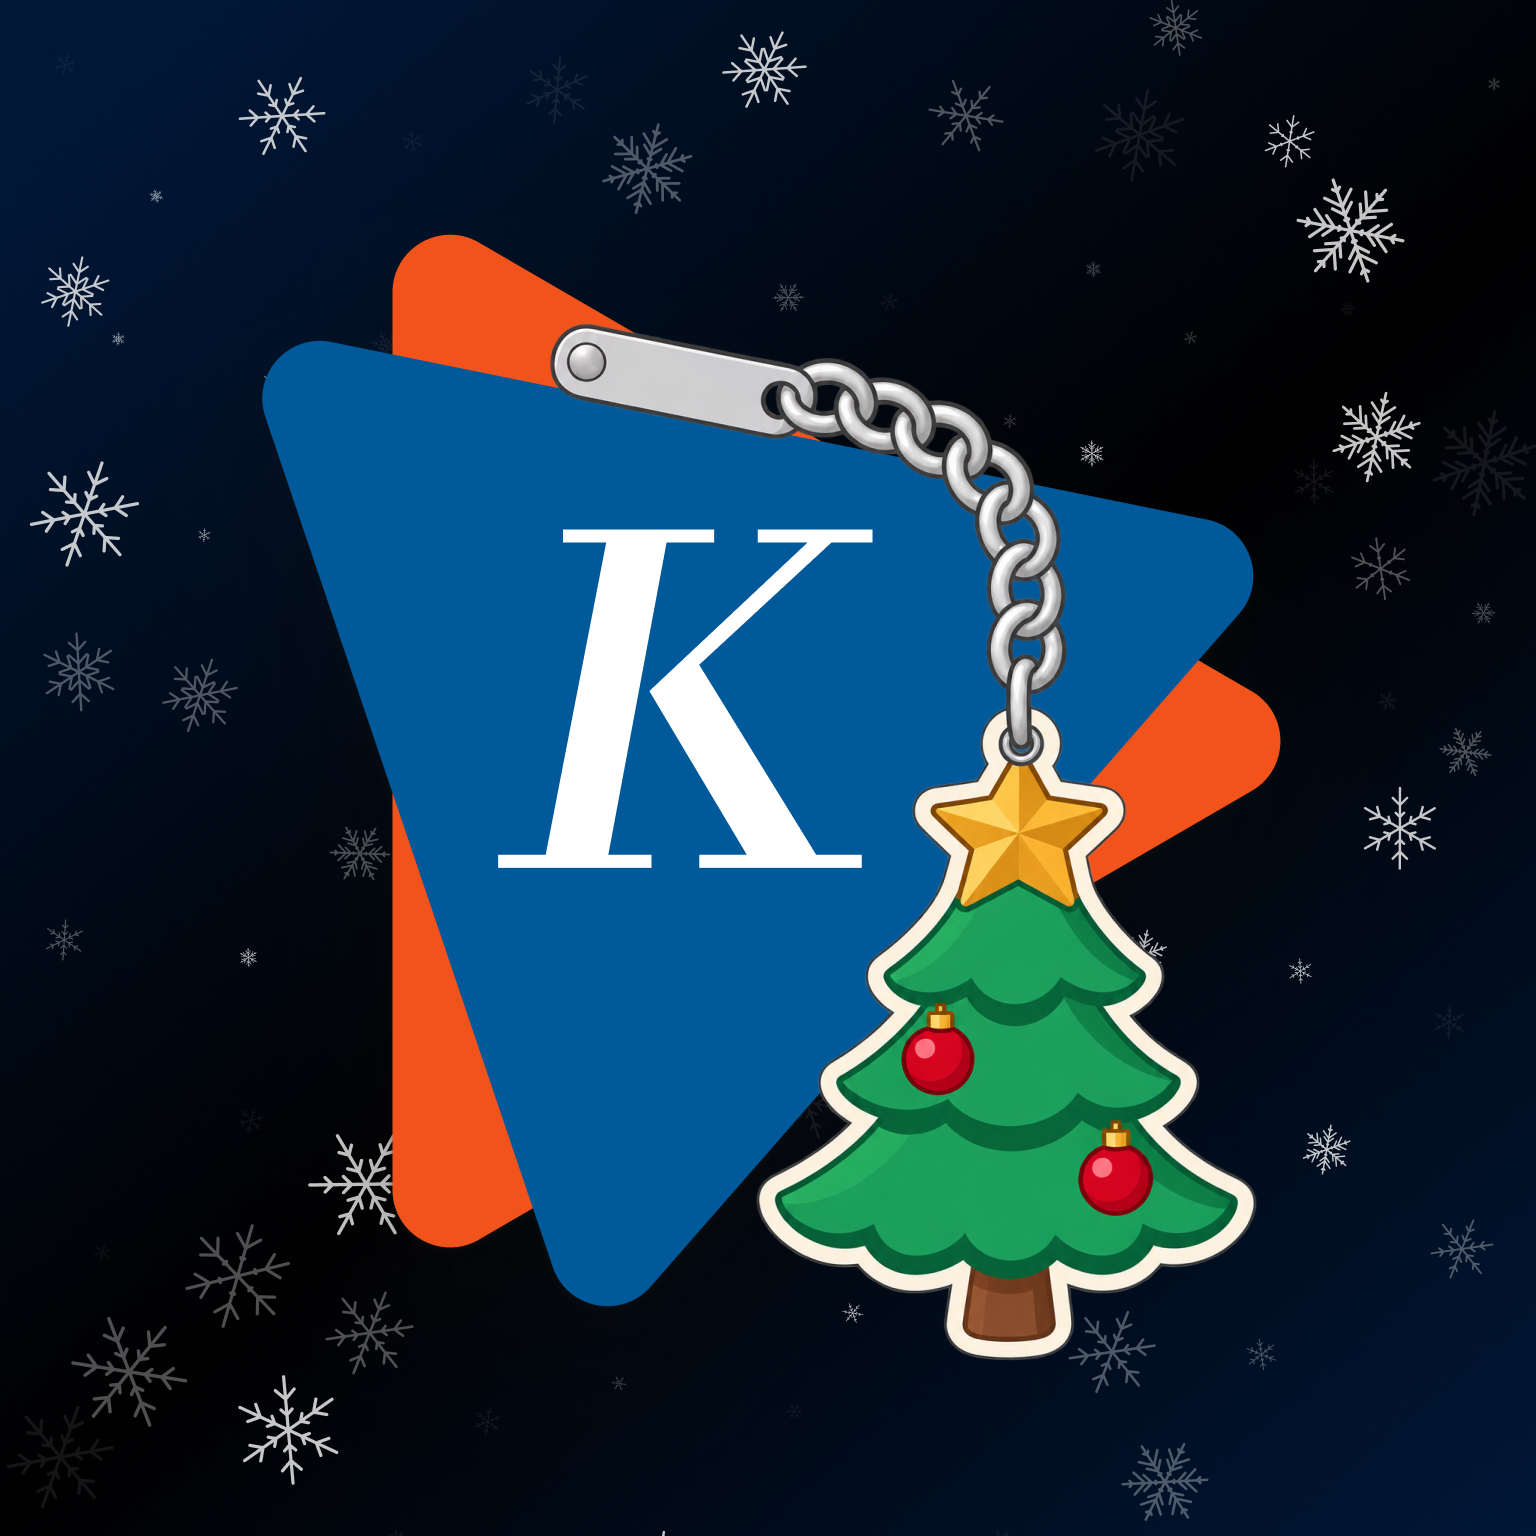
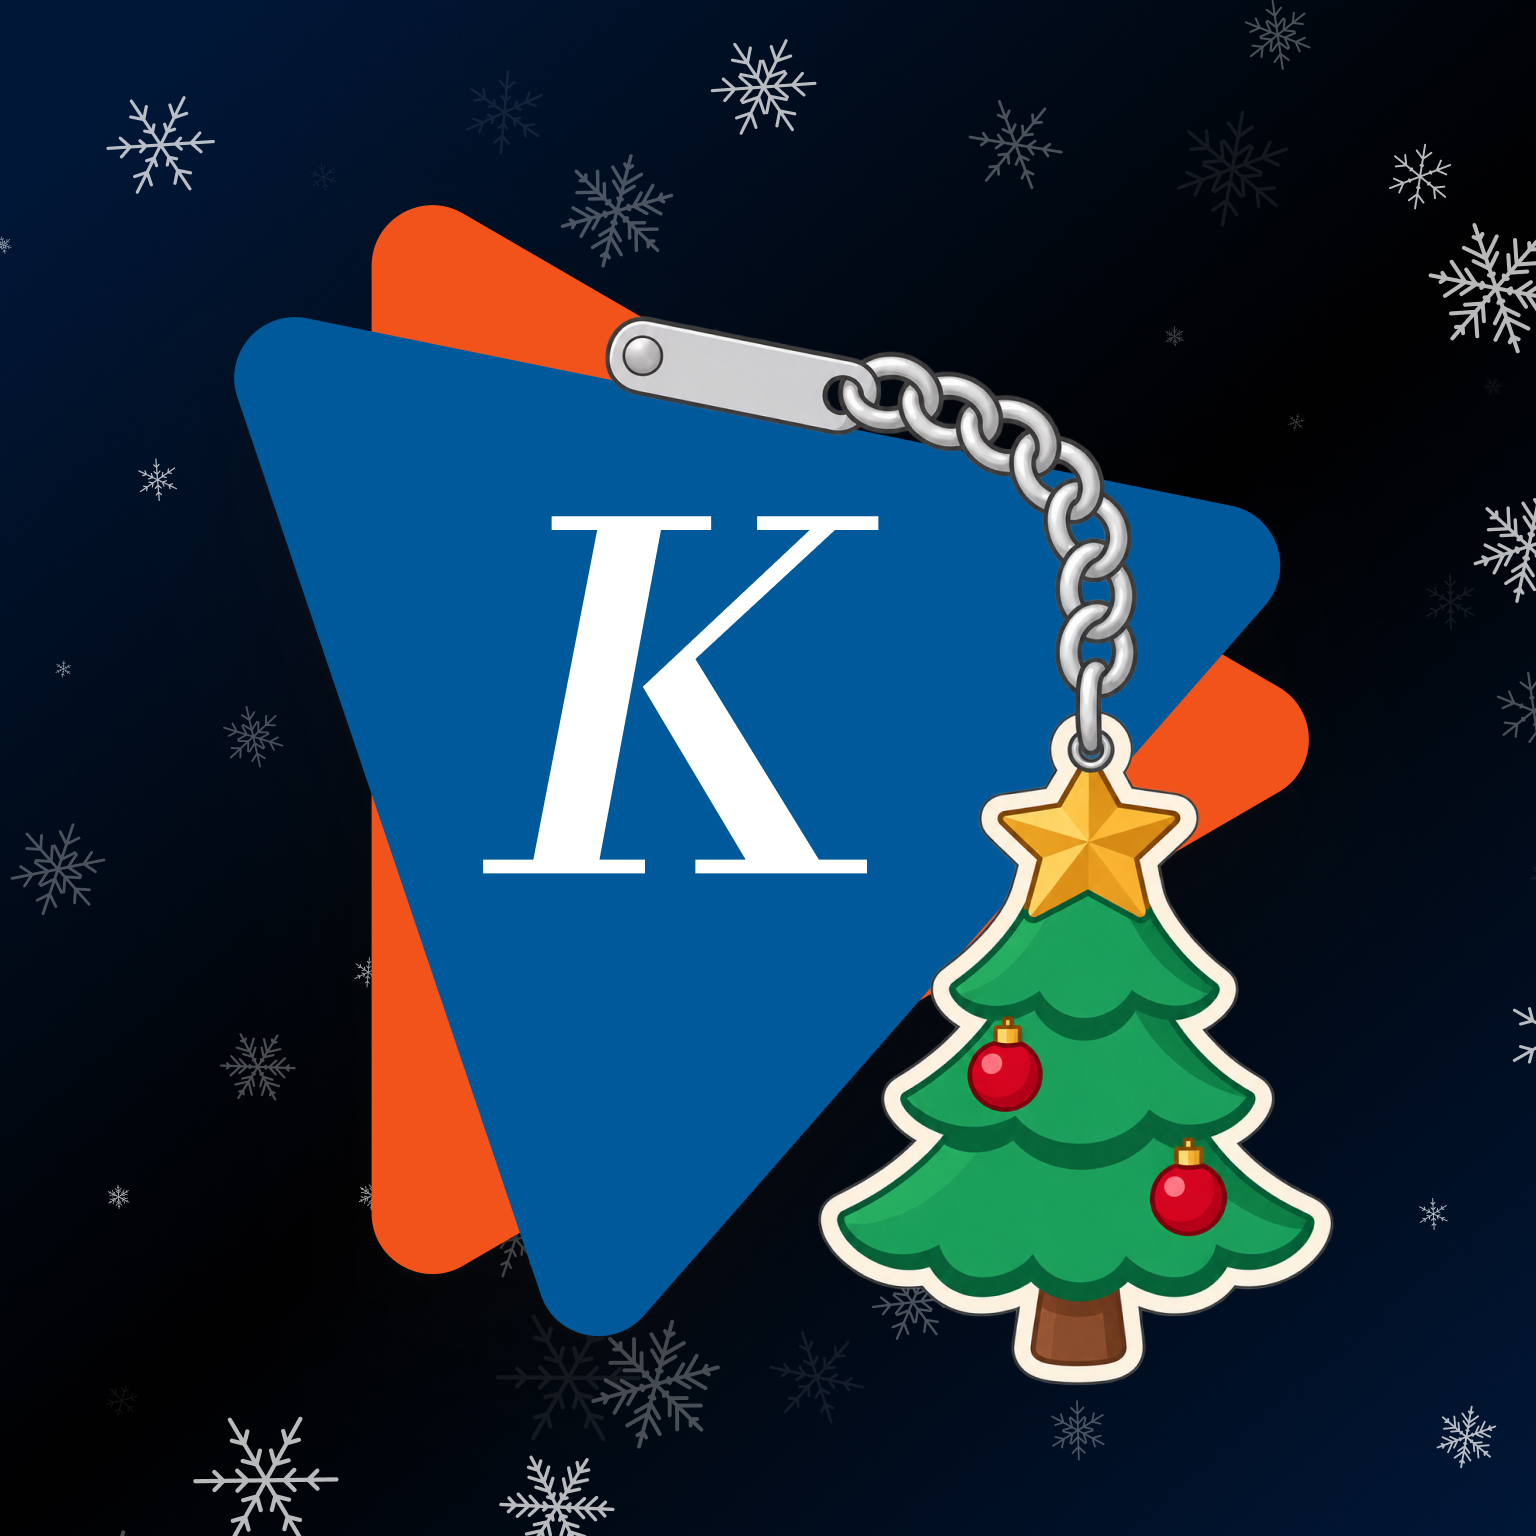
Add Keychain thumbnails to app grids

diff --git a/ios.html b/ios.html
@@ -36,11 +36,13 @@
         <div class="app"><div class="icon mail" aria-hidden="true">✉</div><span class="name">Mail</span></div>
         <div class="app"><div class="icon"><img src="./Assets/Thumbnail/SumpahPemudaDark.jpg" alt="Kompas.com — Sumpah Pemuda, dark" /></div><span class="name">Kompas.com</span></div>
         <div class="app"><div class="icon"><img src="./Assets/Thumbnail/PahlawanDark.jpg" alt="Kompas.com — Sumpah Pemuda dan Hari Pahlawan, dark" /></div><span class="name">Sumpah Pemuda &amp; Hari Pahlawan</span></div>
+        <div class="app"><div class="icon"><img src="./Assets/Thumbnail/PemudaPahlawanKeychain.jpg" alt="Kompas.com — Sumpah Pemuda dan Hari Pahlawan 2" /></div><span class="name">Sumpah Pemuda &amp; Hari Pahlawan 2</span></div>
         <div class="app"><div class="icon"><img src="./Assets/Thumbnail/NatalDark.jpg" alt="Kompas.com — Natal, dark" /></div><span class="name">Kompas.com</span></div>
         <div class="app"><div class="icon"><img src="./Assets/Thumbnail/NatalLight.jpg" alt="Kompas.com — Natal, light" /></div><span class="name">Kompas.com</span></div>
         <div class="app"><div class="icon"><img src="./Assets/Thumbnail/NatalKeychain.jpg" alt="Kompas.com — Natal 2" /></div><span class="name">Natal 2</span></div>
         <div class="app"><div class="icon"><img src="./Assets/Thumbnail/HUTRIDark.jpg" alt="Kompas.com — HUT RI, dark" /></div><span class="name">Kompas.com</span></div>
         <div class="app"><div class="icon"><img src="./Assets/Thumbnail/HUTRILight.jpg" alt="Kompas.com — HUT RI, light" /></div><span class="name">Kompas.com</span></div>
+        <div class="app"><div class="icon"><img src="./Assets/Thumbnail/HUTKemerdekaanKeychain.jpg" alt="Kompas.com — HUT RI 2" /></div><span class="name">HUT RI 2</span></div>
         <div class="app"><div class="icon"><img src="./Assets/Thumbnail/HUTKompascom.jpg" alt="Kompas.com — HUT KOMPAS.com" /></div><span class="name">HUT KOMPAS.com</span></div>
         <div class="app"><div class="icon"><img src="./Assets/Thumbnail/KompascomKeychain.jpg" alt="Kompas.com — Kompas.com 2" /></div><span class="name">Kompas.com 2</span></div>
         <div class="app"><div class="icon"><img src="./Assets/Thumbnail/HariAnakDark.jpg" alt="Kompas.com — Hari Anak, dark" /></div><span class="name">Kompas.com</span></div>
@@ -61,6 +63,7 @@
         <div class="app"><div class="icon"><img src="./Assets/Thumbnail/RamadhanLight.jpg" alt="Kompas.com — Ramadhan, light" /></div><span class="name">Kompas.com</span></div>
         <div class="app"><div class="icon"><img src="./Assets/Thumbnail/RamadhanKeychain.jpg" alt="Kompas.com — Ramadhan 2" /></div><span class="name">Ramadhan 2</span></div>
         <div class="app"><div class="icon"><img src="./Assets/Thumbnail/TahunBaruDark.jpg" alt="Kompas.com — Tahun Baru, dark" /></div><span class="name">Kompas.com</span></div>
+        <div class="app"><div class="icon"><img src="./Assets/Thumbnail/TahunBaruKeychain.jpg" alt="Kompas.com — Tahun Baru 2" /></div><span class="name">Tahun Baru 2</span></div>
         <div class="app"><div class="icon"><img src="./Assets/Thumbnail/TahunBaruLight.jpg" alt="Kompas.com — Tahun Baru, light" /></div><span class="name">Kompas.com</span></div>
         <div class="app"><div class="icon weather" aria-hidden="true">☀</div><span class="name">Weather</span></div>
         <div class="app"><div class="icon notes" aria-hidden="true">≡</div><span class="name">Notes</span></div>
@@ -71,10 +74,12 @@
         const thumbnails = {
           "SumpahPemudaDark.jpg": [1, "Sumpah Pemuda"],
           "PahlawanDark.jpg": [1, "Sumpah Pemuda & Hari Pahlawan"],
+          "PemudaPahlawanKeychain.jpg": [1.5, "Sumpah Pemuda & Hari Pahlawan 2"],
           "NatalDark.jpg": [3, "Natal"],
           "NatalLight.jpg": [4, "Natal"],
           "NatalKeychain.jpg": [4.5, "Natal 2"],
           "TahunBaruDark.jpg": [5, "Tahun Baru"],
+          "TahunBaruKeychain.jpg": [5.5, "Tahun Baru 2"],
           "TahunBaruLight.jpg": [6, "Tahun Baru"],
           "ImlekDark.jpg": [7, "Imlek"],
           "ImlekLight.png": [8, "Imlek"],
@@ -95,6 +100,7 @@
           "HariAnakLight.jpg": [21, "Hari Anak"],
           "HUTRIDark.jpg": [22, "HUT RI"],
           "HUTRILight.jpg": [23, "HUT RI"],
+          "HUTKemerdekaanKeychain.jpg": [23.5, "HUT RI 2"],
           "HUTKompascom.jpg": [24, "HUT KOMPAS.com"],
           "KompascomKeychain.jpg": [25, "Kompas.com 2"]
         };

diff --git a/android.html b/android.html
@@ -36,11 +36,13 @@
         <div class="app"><div class="icon photos" aria-hidden="true">✿</div><span class="name">Photos</span></div>
         <div class="app"><div class="icon"><img src="./Assets/Thumbnail/SumpahPemudaDark.jpg" alt="Kompas.com — Sumpah Pemuda, dark" /></div><span class="name">Sumpah Pemuda</span></div>
         <div class="app"><div class="icon"><img src="./Assets/Thumbnail/PahlawanDark.jpg" alt="Kompas.com — Sumpah Pemuda dan Hari Pahlawan, dark" /></div><span class="name">Sumpah Pemuda &amp; Hari Pahlawan</span></div>
+        <div class="app"><div class="icon"><img src="./Assets/Thumbnail/PemudaPahlawanKeychain.jpg" alt="Kompas.com — Sumpah Pemuda dan Hari Pahlawan 2" /></div><span class="name">Sumpah Pemuda &amp; Hari Pahlawan 2</span></div>
         <div class="app"><div class="icon"><img src="./Assets/Thumbnail/NatalDark.jpg" alt="Kompas.com — Natal, dark" /></div><span class="name">Natal</span></div>
         <div class="app"><div class="icon"><img src="./Assets/Thumbnail/NatalLight.jpg" alt="Kompas.com — Natal, light" /></div><span class="name">Natal</span></div>
         <div class="app"><div class="icon"><img src="./Assets/Thumbnail/NatalKeychain.jpg" alt="Kompas.com — Natal 2" /></div><span class="name">Natal 2</span></div>
         <div class="app"><div class="icon"><img src="./Assets/Thumbnail/HUTRIDark.jpg" alt="Kompas.com — HUT RI, dark" /></div><span class="name">HUT RO</span></div>
         <div class="app"><div class="icon"><img src="./Assets/Thumbnail/HUTRILight.jpg" alt="Kompas.com — HUT RI, light" /></div><span class="name">HUT RI</span></div>
+        <div class="app"><div class="icon"><img src="./Assets/Thumbnail/HUTKemerdekaanKeychain.jpg" alt="Kompas.com — HUT RI 2" /></div><span class="name">HUT RI 2</span></div>
         <div class="app"><div class="icon"><img src="./Assets/Thumbnail/HUTKompascom.jpg" alt="Kompas.com — HUT KOMPAS.com" /></div><span class="name">HUT KOMPAS.com</span></div>
         <div class="app"><div class="icon"><img src="./Assets/Thumbnail/KompascomKeychain.jpg" alt="Kompas.com — Kompas.com 2" /></div><span class="name">Kompas.com 2</span></div>
         <div class="app"><div class="icon"><img src="./Assets/Thumbnail/HariAnakDark.jpg" alt="Kompas.com — Hari Anak, dark" /></div><span class="name">Hari Anak</span></div>
@@ -61,6 +63,7 @@
         <div class="app"><div class="icon"><img src="./Assets/Thumbnail/RamadhanLight.jpg" alt="Kompas.com — Ramadhan, light" /></div><span class="name">Ramadhan</span></div>
         <div class="app"><div class="icon"><img src="./Assets/Thumbnail/RamadhanKeychain.jpg" alt="Kompas.com — Ramadhan 2" /></div><span class="name">Ramadhan 2</span></div>
         <div class="app"><div class="icon"><img src="./Assets/Thumbnail/TahunBaruDark.jpg" alt="Kompas.com — Tahun Baru, dark" /></div><span class="name">Tahun Baru</span></div>
+        <div class="app"><div class="icon"><img src="./Assets/Thumbnail/TahunBaruKeychain.jpg" alt="Kompas.com — Tahun Baru 2" /></div><span class="name">Tahun Baru 2</span></div>
         <div class="app"><div class="icon"><img src="./Assets/Thumbnail/TahunBaruLight.jpg" alt="Kompas.com — Tahun Baru, light" /></div><span class="name">Tahun Baru</span></div>
         <div class="app"><div class="icon weather" aria-hidden="true">☀</div><span class="name">Weather</span></div>
         <div class="app"><div class="icon calendar" aria-hidden="true">1</div><span class="name">Calendar</span></div>
@@ -71,10 +74,12 @@
         const thumbnails = {
           "SumpahPemudaDark.jpg": [1, "Sumpah Pemuda"],
           "PahlawanDark.jpg": [1, "Sumpah Pemuda & Hari Pahlawan"],
+          "PemudaPahlawanKeychain.jpg": [1.5, "Sumpah Pemuda & Hari Pahlawan 2"],
           "NatalDark.jpg": [3, "Natal"],
           "NatalLight.jpg": [4, "Natal"],
           "NatalKeychain.jpg": [4.5, "Natal 2"],
           "TahunBaruDark.jpg": [5, "Tahun Baru"],
+          "TahunBaruKeychain.jpg": [5.5, "Tahun Baru 2"],
           "TahunBaruLight.jpg": [6, "Tahun Baru"],
           "ImlekDark.jpg": [7, "Imlek"],
           "ImlekLight.png": [8, "Imlek"],
@@ -95,6 +100,7 @@
           "HariAnakLight.jpg": [21, "Hari Anak"],
           "HUTRIDark.jpg": [22, "HUT RI"],
           "HUTRILight.jpg": [23, "HUT RI"],
+          "HUTKemerdekaanKeychain.jpg": [23.5, "HUT RI 2"],
           "HUTKompascom.jpg": [24, "HUT KOMPAS.com"],
           "KompascomKeychain.jpg": [25, "Kompas.com 2"]
         };
